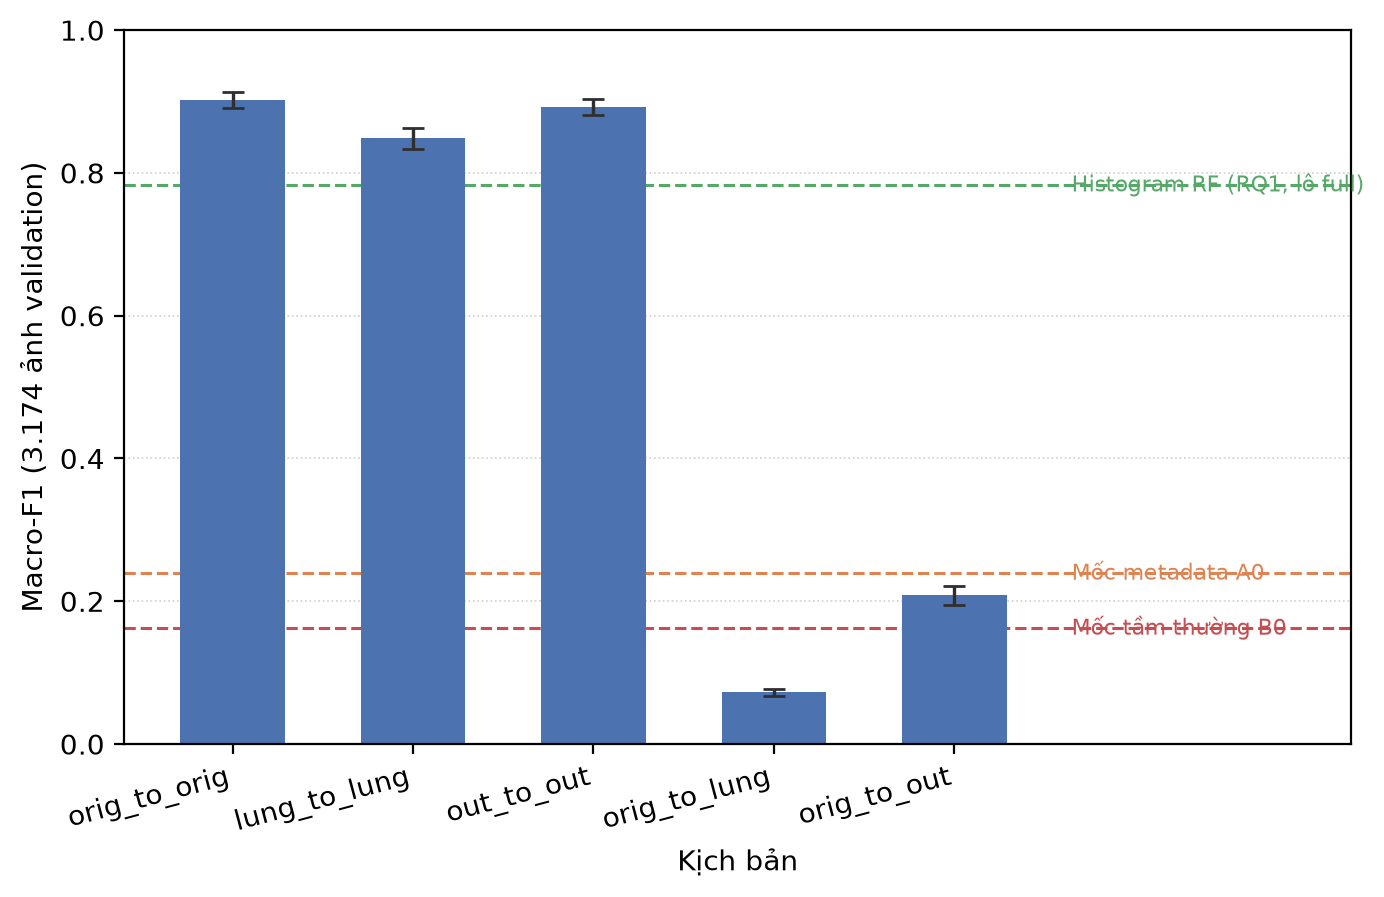
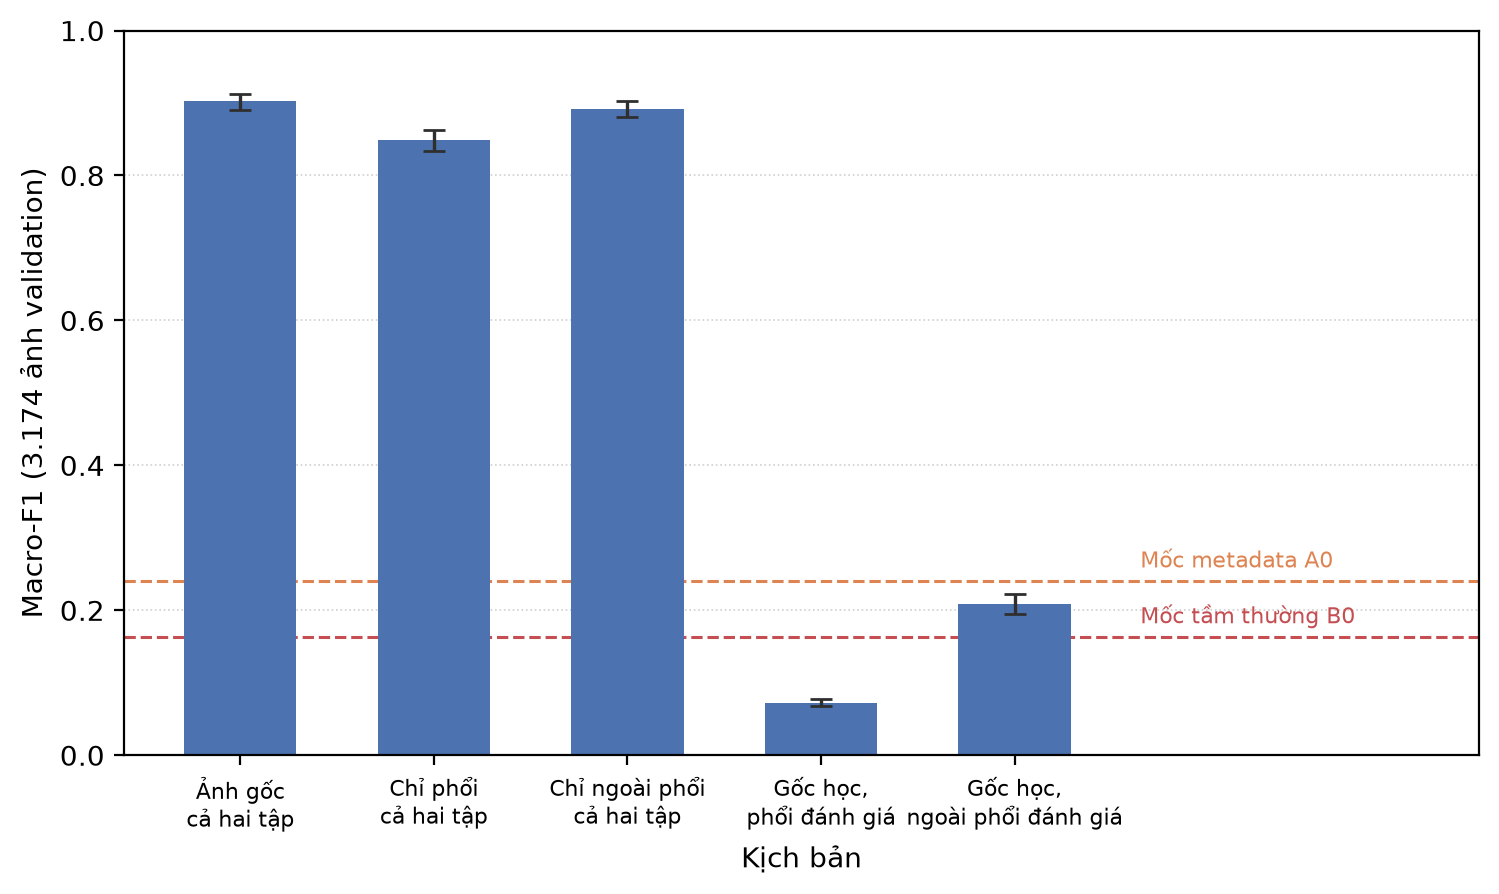
report: revise chapter 4 per review round 1
Apply review N1-N10: add mask-coverage limits and a source-split
measurement (RSNA-only pair error unchanged at 11.85% vs 10.86%; 0/197
Mooney Normal predicted as Viral Pneumonia across all three same-mode
scenarios), drop the invalid SE comparison in favour of the CI upper bound
against the 0.005 rule, fix the closing claim about consistent masking,
trim Bảng 4.3 to informative scenarios, state the frozen-config limitation,
label registered vs supplementary comparisons, add recall deltas and
precision/F1 evidence, rename the chapter, and rework figure 4.1 (Vietnamese
labels, two baselines only).

Changed region(s): [[0.0, 0.0302, 0.9942, 0.9966]]

diff --git a/scripts/report_figures_rq3.py b/scripts/report_figures_rq3.py
@@ -4,10 +4,10 @@ Số liệu đọc từ các tệp đã commit, không đọc ảnh:
 
 - ``results/report_rq3/r1_summary.csv`` (macro-F1 và khoảng tin cậy 95% của năm kịch bản);
 - ``results/b0_majority/metrics.json`` (mốc tầm thường B0);
-- ``results/a0_shortcut/metrics.json`` (mốc metadata A0);
-- ``results/report_rq1/r1_summary.csv`` (macro-F1 nhóm histogram với Random Forest, lô full RQ1).
+- ``results/a0_shortcut/metrics.json`` (mốc metadata A0).
 
-Ba đường mốc nằm ngoài cột nên được trừ từ cùng các tệp này, không ghi số trực tiếp trong hình.
+Hai đường mốc nằm ngoài cột nên được trừ từ cùng các tệp này, không ghi số trực tiếp trong hình.
+Nhãn trục x dùng tên mô tả tiếng Việt thay cho mã kịch bản, khớp với cách gọi trong chương.
 
 Chạy: ``python -m scripts.report_figures_rq3``
 """
@@ -37,10 +37,18 @@ SCENARIO_ORDER: Sequence[str] = (
     "orig_to_out",
 )
 
+# Nhan tieng Viet cho truc x, theo thu tu SCENARIO_ORDER.
+SCENARIO_LABELS: Sequence[str] = (
+    "Ảnh gốc\ncả hai tập",
+    "Chỉ phổi\ncả hai tập",
+    "Chỉ ngoài phổi\ncả hai tập",
+    "Gốc học,\nphổi đánh giá",
+    "Gốc học,\nngoài phổi đánh giá",
+)
+
 DEFAULT_SUMMARY = REPO_ROOT / "results" / "report_rq3" / "r1_summary.csv"
 DEFAULT_B0 = REPO_ROOT / "results" / "b0_majority" / "metrics.json"
 DEFAULT_A0 = REPO_ROOT / "results" / "a0_shortcut" / "metrics.json"
-DEFAULT_HIST = REPO_ROOT / "results" / "report_rq1" / "r1_summary.csv"
 DEFAULT_OUT = REPO_ROOT / "report" / "figures" / "04_macro_f1_kich_ban_rq3.png"
 
 
@@ -61,24 +69,13 @@ def load_scenarios(summary_path: Path) -> List[Dict[str, float]]:
     return [{"scenario": name, **rows[name]} for name in SCENARIO_ORDER]
 
 
-def load_baselines(
-    b0_path: Path, a0_path: Path, hist_path: Path
-) -> Dict[str, float]:
-    """Doc ba moc nen: B0, A0 va histogram–RF cua lo full RQ1."""
+def load_baselines(b0_path: Path, a0_path: Path) -> Dict[str, float]:
+    """Doc hai moc nen: B0 va A0."""
     b0 = json.loads(b0_path.read_text(encoding="utf-8"))
     a0 = json.loads(a0_path.read_text(encoding="utf-8"))
-    hist_value = None
-    with hist_path.open(newline="", encoding="utf-8") as handle:
-        for record in csv.DictReader(handle):
-            if record["features"].strip() == "hist":
-                hist_value = float(record["macro_f1_mean"])
-                break
-    if hist_value is None:
-        raise ValueError(f"{hist_path} khong co dong features = hist")
     return {
         "b0": float(b0["macro_f1"]),
         "a0": float(a0["random_forest"]["macro_f1"]),
-        "hist": hist_value,
     }
 
 
@@ -87,13 +84,12 @@ def draw(
     baselines: Dict[str, float],
     out_path: Path,
 ) -> Path:
-    """Ve bieu do cot macro-F1 kem que khoang tin cậy va ba duong moc nen."""
-    names = [str(row["scenario"]) for row in rows]
+    """Ve bieu do cot macro-F1 kem que khoang tin cậy va hai duong moc nen."""
     values = np.array([float(row["macro_f1"]) for row in rows], dtype=float)
     lows = np.array([float(row["ci95_low"]) for row in rows], dtype=float)
     highs = np.array([float(row["ci95_high"]) for row in rows], dtype=float)
 
-    fig, ax = plt.subplots(figsize=(7.2, 4.6))
+    fig, ax = plt.subplots(figsize=(7.6, 4.6))
     positions = np.arange(len(rows))
     ax.bar(positions, values, width=0.58, color="#4C72B0", zorder=2)
     ax.errorbar(
@@ -107,27 +103,26 @@ def draw(
         zorder=3,
     )
 
+    # Nho ruong ben phai de dat nhan moc nen, tranh de len cot va que khoang tin cậy.
+    right_edge = len(rows) - 0.5 + 1.9
+    ax.set_xlim(-0.6, right_edge)
     lines = [
         (baselines["b0"], "Mốc tầm thường B0", "#C44E52"),
         (baselines["a0"], "Mốc metadata A0", "#DD8452"),
-        (baselines["hist"], "Histogram RF (RQ1, lô full)", "#55A868"),
     ]
-    # Nho ruong ben phai de dat nhan moc nen, tranh de len cot va que khoang tin cậy.
-    right_edge = len(rows) - 0.5 + 1.7
-    ax.set_xlim(-0.6, right_edge)
     for value, label, color in lines:
         ax.axhline(value, linestyle="--", linewidth=1.1, color=color, zorder=1)
         ax.text(
             len(rows) - 0.35,
-            value,
+            value + 0.012,
             label,
             color=color,
             fontsize=8,
             ha="left",
-            va="center",
+            va="bottom",
         )
 
-    ax.set_xticks(positions, names, rotation=15, ha="right")
+    ax.set_xticks(positions, SCENARIO_LABELS, fontsize=8)
     ax.set_ylim(0.0, 1.0)
     ax.set_ylabel("Macro-F1 (3.174 ảnh validation)")
     ax.set_xlabel("Kịch bản")
@@ -144,12 +139,11 @@ def build(
     summary_path: Path,
     b0_path: Path,
     a0_path: Path,
-    hist_path: Path,
     out_path: Path,
 ) -> Dict[str, object]:
     """Doc so lieu, ve hinh va tra ve thong tin dung cho bao cao."""
     rows = load_scenarios(summary_path)
-    baselines = load_baselines(b0_path, a0_path, hist_path)
+    baselines = load_baselines(b0_path, a0_path)
     path = draw(rows, baselines, out_path)
     return {
         "figure": path.as_posix(),
@@ -167,11 +161,10 @@ def main(argv: List[str] | None = None) -> int:
     parser.add_argument("--summary", type=Path, default=DEFAULT_SUMMARY)
     parser.add_argument("--b0", type=Path, default=DEFAULT_B0)
     parser.add_argument("--a0", type=Path, default=DEFAULT_A0)
-    parser.add_argument("--hist", type=Path, default=DEFAULT_HIST)
     parser.add_argument("--out", type=Path, default=DEFAULT_OUT)
     args = parser.parse_args(argv)
 
-    info = build(args.summary, args.b0, args.a0, args.hist, args.out)
+    info = build(args.summary, args.b0, args.a0, args.out)
     print(f"Da ghi {info['figure']}")
     print(f"Kich ban: {info['scenarios']}")
     print(f"Macro-F1: {info['macro_f1']}")

diff --git a/tests/test_report_figures_rq3.py b/tests/test_report_figures_rq3.py
@@ -9,6 +9,7 @@ from pathlib import Path
 import pytest
 
 from scripts.report_figures_rq3 import (
+    SCENARIO_LABELS,
     SCENARIO_ORDER,
     build,
     load_baselines,
@@ -19,7 +20,6 @@ REPO_ROOT = Path(__file__).resolve().parents[1]
 SUMMARY = REPO_ROOT / "results" / "report_rq3" / "r1_summary.csv"
 B0 = REPO_ROOT / "results" / "b0_majority" / "metrics.json"
 A0 = REPO_ROOT / "results" / "a0_shortcut" / "metrics.json"
-HIST = REPO_ROOT / "results" / "report_rq1" / "r1_summary.csv"
 
 
 def _write_summary(path: Path) -> None:
@@ -72,8 +72,8 @@ def test_load_scenarios_rejects_missing_scenario(tmp_path: Path) -> None:
         load_scenarios(summary)
 
 
-def test_load_baselines_reads_three_files(tmp_path: Path) -> None:
-    """Ba mốc nền phải đọc đúng khóa từ tệp nguồn tương ứng."""
+def test_load_baselines_reads_two_files(tmp_path: Path) -> None:
+    """Hai mốc nền phải đọc đúng khóa từ tệp nguồn tương ứng."""
     b0_path = tmp_path / "b0.json"
     b0_path.write_text(
         json.dumps({"accuracy": 0.4824, "macro_f1": 0.1627}), encoding="utf-8"
@@ -82,20 +82,14 @@ def test_load_baselines_reads_three_files(tmp_path: Path) -> None:
     a0_path.write_text(
         json.dumps({"random_forest": {"macro_f1": 0.2397}}), encoding="utf-8"
     )
-    hist_path = tmp_path / "r1_summary.csv"
-    with hist_path.open("w", newline="", encoding="utf-8") as handle:
-        writer = csv.writer(handle)
-        writer.writerow(["features", "n_seeds", "macro_f1_mean"])
-        writer.writerow(["hog", "3", "0.7625"])
-        writer.writerow(["hist", "3", "0.7829"])
 
-    baselines = load_baselines(b0_path, a0_path, hist_path)
+    baselines = load_baselines(b0_path, a0_path)
 
-    assert baselines == {"b0": pytest.approx(0.1627), "a0": pytest.approx(0.2397), "hist": pytest.approx(0.7829)}
+    assert baselines == {"b0": pytest.approx(0.1627), "a0": pytest.approx(0.2397)}
 
 
 def test_build_writes_figure_and_returns_values(tmp_path: Path) -> None:
-    """Hàm build phải ghi tệp hình và trả về đúng năm kịch bản cùng ba mốc nền."""
+    """Hàm build phải ghi tệp hình và trả về đúng năm kịch bản cùng hai mốc nền."""
     summary = tmp_path / "r1_summary.csv"
     _write_summary(summary)
     b0_path = tmp_path / "b0.json"
@@ -104,28 +98,29 @@ def test_build_writes_figure_and_returns_values(tmp_path: Path) -> None:
     a0_path.write_text(
         json.dumps({"random_forest": {"macro_f1": 0.2397}}), encoding="utf-8"
     )
-    hist_path = tmp_path / "hist.csv"
-    with hist_path.open("w", newline="", encoding="utf-8") as handle:
-        writer = csv.writer(handle)
-        writer.writerow(["features", "macro_f1_mean"])
-        writer.writerow(["hist", "0.7829"])
     out = tmp_path / "fig.png"
 
-    info = build(summary, b0_path, a0_path, hist_path, out)
+    info = build(summary, b0_path, a0_path, out)
 
     assert out.exists()
     assert info["scenarios"] == list(SCENARIO_ORDER)
     assert info["macro_f1"][0] == 0.9024
-    assert info["baselines"] == {"b0": 0.1627, "a0": 0.2397, "hist": 0.7829}
+    assert info["baselines"] == {"b0": 0.1627, "a0": 0.2397}
+
+
+def test_scenario_labels_cover_all_scenarios() -> None:
+    """Mỗi kịch bản phải có đúng một nhãn tiếng Việt để vẽ trục x."""
+    assert len(SCENARIO_LABELS) == len(SCENARIO_ORDER)
+    assert all(label.strip() for label in SCENARIO_LABELS)
 
 
 @pytest.mark.skipif(
-    not SUMMARY.exists() or not B0.exists() or not A0.exists() or not HIST.exists(),
-    reason="Thiếu tệp nguồn RQ3/B0/A0/RQ1",
+    not SUMMARY.exists() or not B0.exists() or not A0.exists(),
+    reason="Thiếu tệp nguồn RQ3/B0/A0",
 )
 def test_baselines_match_repo_files() -> None:
-    """Ba mốc nền trong hình phải trùng với giá trị đọc trực tiếp từ tệp trong repo."""
-    baselines = load_baselines(B0, A0, HIST)
+    """Hai mốc nền trong hình phải trùng với giá trị đọc trực tiếp từ tệp trong repo."""
+    baselines = load_baselines(B0, A0)
 
     assert baselines["b0"] == pytest.approx(
         json.loads(B0.read_text(encoding="utf-8"))["macro_f1"]
@@ -133,6 +128,3 @@ def test_baselines_match_repo_files() -> None:
     assert baselines["a0"] == pytest.approx(
         json.loads(A0.read_text(encoding="utf-8"))["random_forest"]["macro_f1"]
     )
-    with HIST.open(newline="", encoding="utf-8") as handle:
-        hist_row = next(r for r in csv.DictReader(handle) if r["features"] == "hist")
-    assert baselines["hist"] == pytest.approx(float(hist_row["macro_f1_mean"]))

diff --git a/report/README.md b/report/README.md
@@ -92,7 +92,7 @@ Bố cục 6 chương theo [`docs/report_standards.md`](../docs/report_standards
 | 3.3 | RQ2: so sánh sáu bộ phân loại trên nhóm ghép | `results/report_rq2/r1_summary.csv` (svm 0,9024; gb 0,8868 ± 0,0030; rf 0,8582 ± 0,0033; lr 0,8370; knn 0,8242; dt 0,7271 ± 0,0017), `results/report_rq2/r1_bootstrap_vs_reference.csv` (năm phép so với mốc `rf`: svm +0,0442, CI [+0,0320; +0,0580]; bốn phép còn lại âm và CI không chứa 0), `results/report_rq2/bootstrap_config.json` (n = 3.174, 2.000 lần, seed 42). Cấu hình SVM đã chọn ở `results/rq2_ghep_svm_s42/metrics.json` |
 | 3.4 | Đánh giá SVM RBF trên validation và ma trận nhầm lẫn | `results/rq2_ghep_svm_s42/metrics.json` (accuracy 89,00%, balanced accuracy 0,9078, macro-F1 0,9024, chỉ số từng lớp, ma trận nhầm lẫn 4×4), `results/rq2_ghep_svm_s42/preds_val.csv` (nhãn thực, nhãn dự đoán và bốn cột xác suất từng ảnh), `results/eda/normal_source_labels.csv` (10.192 ảnh lớp Normal tách theo nguồn RSNA / Mooney, sinh bằng `python -m src.source_labels`), `results/error_analysis/error_analysis_summary.md` (349 lỗi; 240 lỗi đồng thuận; 138 lỗi có `proba_pred` từ 0,80). Hình 3.1 sinh bằng `python -m scripts.report_figures`, ghi ra `report/figures/03_ma_tran_nham_lon_svm_val.png`; kiểm thử `tests/test_report_figures.py` và `tests/test_source_labels.py`. Không dùng `results/final_test/confusion_matrix_test.png` vì thuộc Chương 5 |
 
-### Chương 4. Nghiên cứu hiện tượng học lối tắt, RQ3 (3 tiểu mục)
+### Chương 4. Mức phụ thuộc vào vùng ngoài phổi (RQ3) (3 tiểu mục)
 
 | # | Mục | Nguồn |
 | :-: | :--- | :--- |
